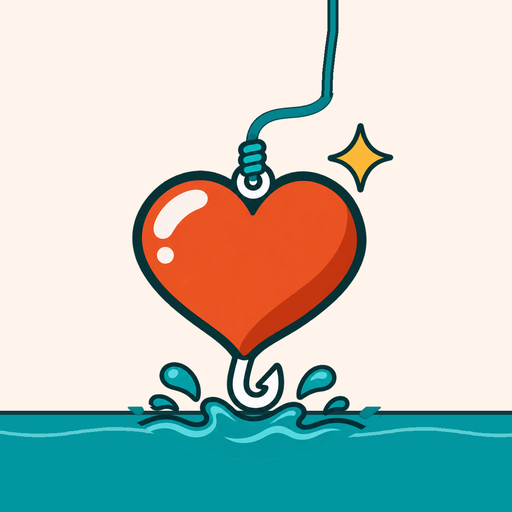
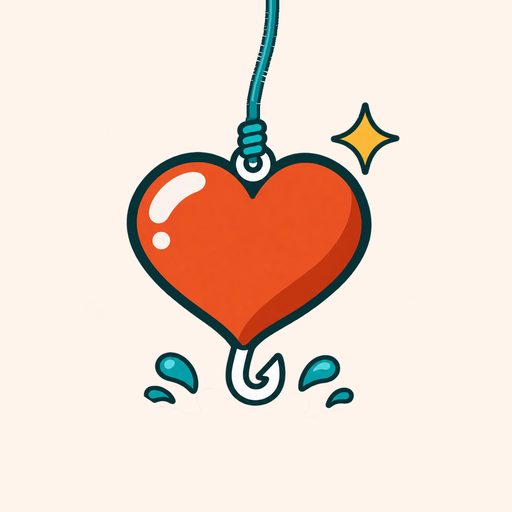
App 圖示：釣線改用程式畫，底部水面移除
- 擦掉原圖整條釣線，只保留打結的部分，釣線改用程式畫平順的曲線往上穿出畫面
- 移除底部海浪，只留水花，圓形或圓角裁切的底部不再有圖
- 圖示版本參數改為 v=5

Claude-Session: https://claude.ai/code/session_01TfsCMMS1EukxMS38GiAAfD

diff --git a/index.html b/index.html
@@ -11,8 +11,8 @@
 <meta name="apple-mobile-web-app-status-bar-style" content="default">
 <meta name="apple-mobile-web-app-title" content="今天餵誰">
 <link rel="manifest" href="manifest.json">
-<link rel="icon" type="image/png" sizes="32x32" href="icons/favicon-32.png?v=4">
-<link rel="apple-touch-icon" href="icons/apple-touch-icon-180.png?v=4">
+<link rel="icon" type="image/png" sizes="32x32" href="icons/favicon-32.png?v=5">
+<link rel="apple-touch-icon" href="icons/apple-touch-icon-180.png?v=5">
 <link rel="preconnect" href="https://fonts.googleapis.com">
 <link rel="preconnect" href="https://fonts.gstatic.com" crossorigin>
 <link rel="stylesheet" href="https://fonts.googleapis.com/css2?family=Chiron+GoRound+TC:wght@400;700&family=Noto+Sans+TC:wght@400;500;700;900&display=swap">
